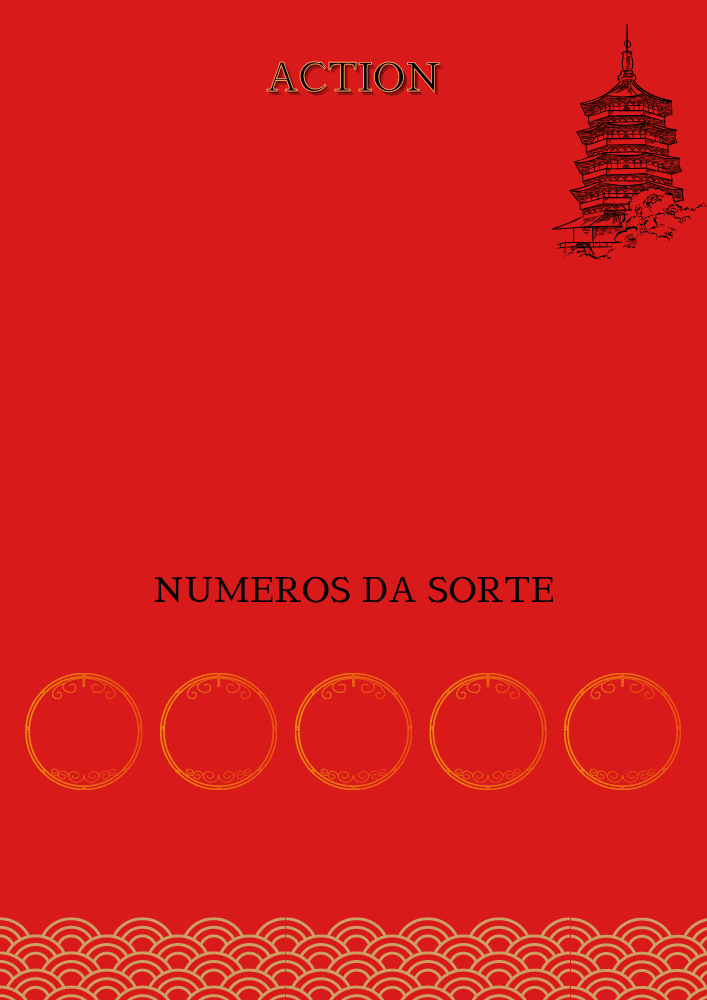
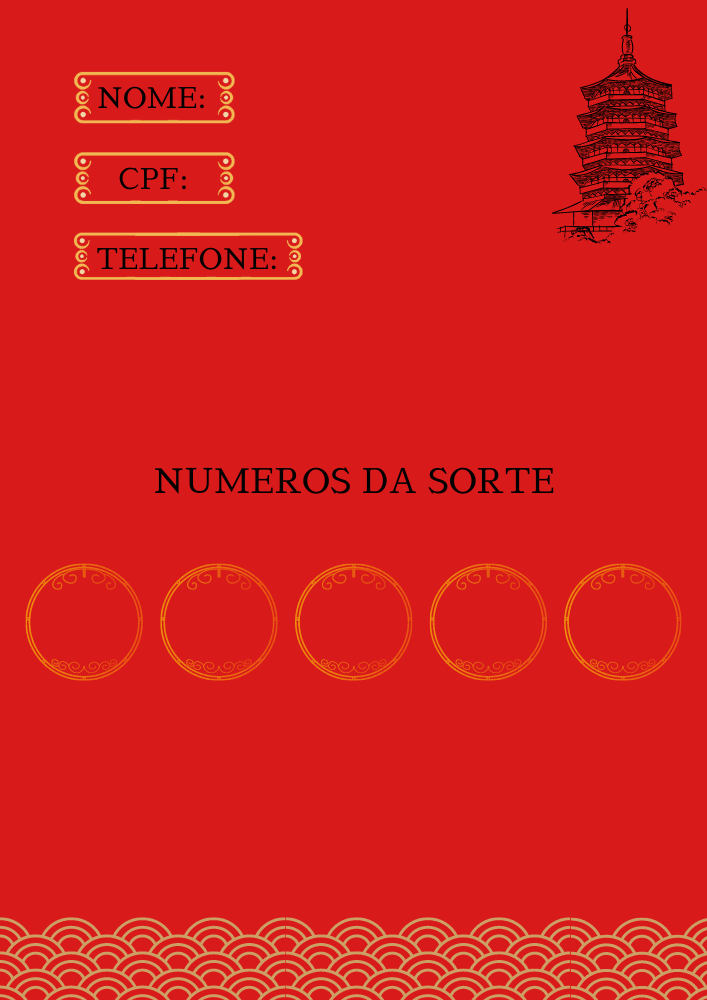
Imagem tela 2

diff --git a/interface.py b/interface.py
@@ -56,12 +56,13 @@ Salvar = PhotoImage(file = "finalizar.png")
 #criar os widgets
 
 
-lb0 = Label(fr2, text='Nome:')
+
 in0 = Entry(fr2, text='')
-lb1 = Label(fr2, text='CPF:')
+
 in1 = Entry(fr2, text='')
-lb2 = Label(fr2, text='Telefone:')
+
 in2 = Entry(fr2, text='')
+
 bt0 = Button(fr2, text='Salvar', command=lambda: obj_funcoes.cadastrar_participante(in1.get(),in0.get(),in2.get()))
 
 bt1 = Button(fr2, text='Voltar', command=lambda:[fr2.grid_remove(), fr1.grid(row=2, column=0)])
@@ -90,24 +91,24 @@ def sv_jogo():
 bt3 = Button(fr2, text='Jogar', command=lambda: [sv_jogo(), obj_funcoes.cadastrar_jogo(jogo)])
 
 #print (jogo)
-lb0.place(x= 90, y= 180)
-in0.place(x= 250, y= 180)
-lb1.place(x= 90, y= 230)
-in1.place(x= 250, y= 230)
-lb2.place(x= 90, y= 280)
-in2.place(x= 250, y= 280)
 
-bt0.place(x=90, y= 450)
+in0.place(x= 250, y= 90)
 
-bt1.place(x=90, y=850)
+in1.place(x= 250, y= 170)
 
-bt3.place(x=140, y=850)
+in2.place(x= 315, y= 250)
 
-enS1.place(x= 53, y= 725)
-enS2.place(x= 189, y= 725)
-enS3.place(x= 325, y= 725)
-enS4.place(x= 457, y= 725)
-enS5.place(x= 593, y= 725)
+bt0.place(x=80, y= 350)
+
+bt1.place(x=80, y=850)
+
+bt3.place(x=130, y=850)
+
+enS1.place(x= 53, y= 615)
+enS2.place(x= 189, y= 615)
+enS3.place(x= 325, y= 615)
+enS4.place(x= 457, y= 615)
+enS5.place(x= 593, y= 615)
 
 root.mainloop()
 #from janela_teste import *
